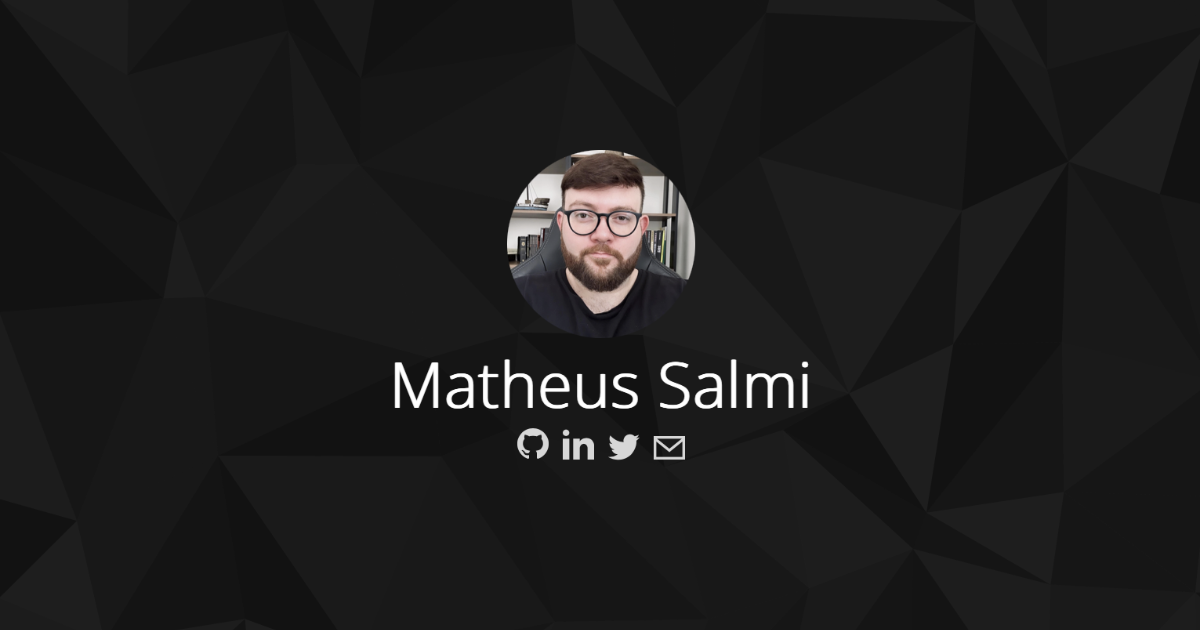
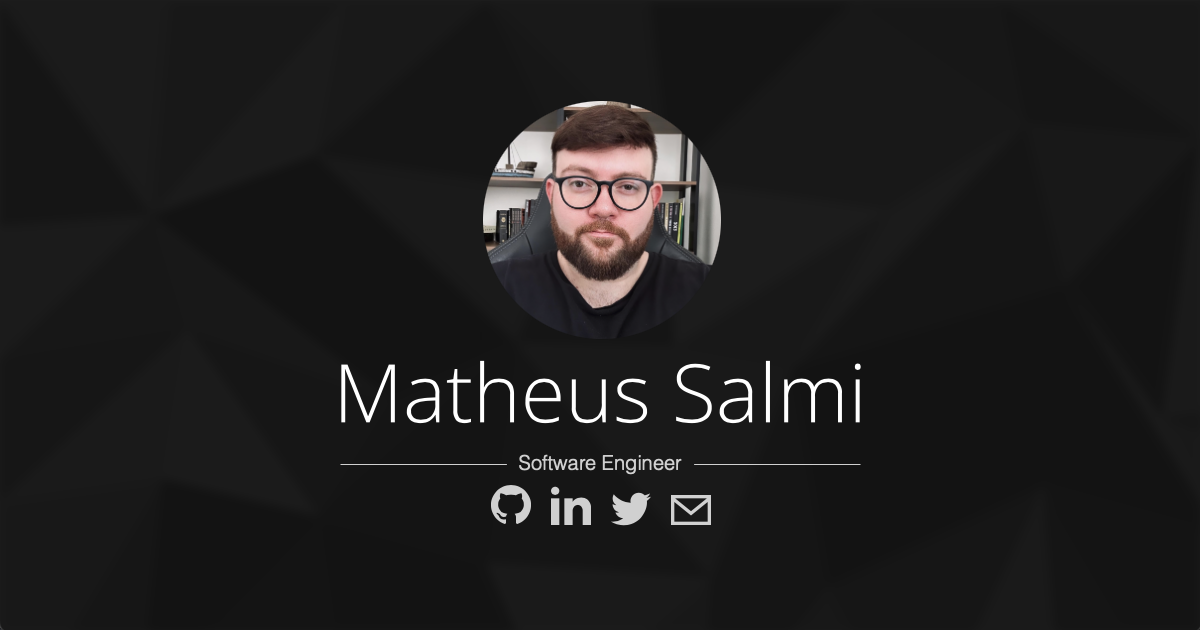
Add title. Update content and preview image

Changed region(s): [[0.2775, 0.573, 0.74, 0.8444], [0.4008, 0.1508, 0.6167, 0.5127]]

diff --git a/index.html b/index.html
@@ -5,8 +5,8 @@
 	<meta charset="UTF-8">
 	<meta name="viewport" content="width=device-width, initial-scale=1.0">
 	<title>Matheus Salmi</title>
-	<meta name="description" content="Fullstack developer with more than 10 years of experience.">
-	<meta name="keywords" content="developer, programmer, java, php, go, golang, sql, bash, html, javascript, js, css, react, mysql, laravel, spring">
+	<meta name="description" content="Full-stack developer with more than 10 years of experience.">
+	<meta name="keywords" content="developer, programmer, software engineer, java, php, go, golang, sql, bash, html, javascript, js, typescript, css, react, mysql, postgres, laravel, spring, symfony">
 
 	<meta property="og:title" content="Matheus Salmi">
 	<meta property="og:site_name" content="Matheus Salmi">
@@ -16,7 +16,7 @@
 	<meta name="twitter:card" content="summary">
 	<meta name="twitter:site" content="@mathsalmi">
 	<meta name="twitter:title" content="Matheus Salmi">
-	<meta name="twitter:description" content="Fullstack developer with more than 10 years of experience.">
+	<meta name="twitter:description" content="Full-stack developer with more than 10 years of experience.">
 	<meta name="twitter:image" content="http://msalmi.com/preview.png">
 
 	<link rel="stylesheet" href="index.css">
@@ -39,11 +39,10 @@
 			<img src="https://gravatar.com/avatar/80272aa63dea9faa27f3736f4820471f.jpg?size=480" alt="" width="240" height="240">
 		</picture>
 		<hgroup>
-		<h1 class="name">
-			<span class="hidden">Matheus Salmi</span>
-			<svg width="100%" height="100%" viewBox="0 0 514 64" xmlns="http://www.w3.org/2000/svg" style="fill-rule:evenodd;clip-rule:evenodd;stroke-linejoin:round;stroke-miterlimit:2;"><path d="M25.066,62l-20.976,-52.734l-0.195,-0c0.078,1.432 0.143,2.975 0.195,4.629c0.052,1.653 0.078,3.418 0.078,5.293l-0,42.812l-3.828,0l-0,-57.109l6.094,-0l20.234,50.859l0.234,0l20.391,-50.859l5.937,-0l0,57.109l-3.945,0l0,-43.281c0,-1.537 0.026,-3.112 0.078,-4.727c0.052,-1.614 0.117,-3.164 0.196,-4.648l-0.235,-0l-21.054,52.656l-3.204,0Z" style="fill-rule:nonzero;"/><path d="M83.23,18.797c4.662,-0 8.152,1.178 10.469,3.535c2.318,2.357 3.477,6.087 3.477,11.191l-0,28.477l-3.047,0l-0.703,-7.422l-0.235,0c-1.406,2.396 -3.242,4.362 -5.507,5.899c-2.266,1.536 -5.43,2.304 -9.493,2.304c-4.088,0 -7.291,-1.015 -9.609,-3.047c-2.318,-2.031 -3.477,-4.922 -3.477,-8.672c0,-4.218 1.745,-7.428 5.235,-9.628c3.489,-2.201 8.502,-3.444 15.039,-3.731l7.891,-0.391l-0,-3.085c-0,-4.349 -0.86,-7.448 -2.579,-9.297c-1.718,-1.849 -4.257,-2.774 -7.617,-2.774c-2.187,0 -4.29,0.28 -6.308,0.84c-2.019,0.56 -4.069,1.361 -6.153,2.402l-1.25,-3.281c2.032,-0.963 4.213,-1.758 6.543,-2.383c2.331,-0.625 4.772,-0.937 7.324,-0.937Zm10,21.601l-7.421,0.313c-5.391,0.26 -9.493,1.224 -12.305,2.891c-2.813,1.666 -4.219,4.166 -4.219,7.5c0,2.682 0.84,4.739 2.52,6.171c1.679,1.433 4.017,2.149 7.011,2.149c4.662,-0 8.223,-1.328 10.684,-3.985c2.461,-2.656 3.704,-6.276 3.73,-10.859l0,-4.18Z" style="fill-rule:nonzero;"/><path d="M122.254,59.383c1.224,-0 2.363,-0.091 3.418,-0.274c1.055,-0.182 1.986,-0.416 2.793,-0.703l-0,3.282c-0.833,0.286 -1.817,0.54 -2.949,0.761c-1.133,0.222 -2.364,0.332 -3.692,0.332c-3.594,0 -6.289,-1.009 -8.086,-3.027c-1.797,-2.018 -2.695,-5.163 -2.695,-9.434l-0,-27.5l-6.328,0l-0,-2.343l6.289,-1.211l1.367,-10l2.617,-0l0,10.273l13.242,0l0,3.281l-13.242,0l0,27.266c0,3.047 0.567,5.358 1.699,6.934c1.133,1.575 2.989,2.363 5.567,2.363Z" style="fill-rule:nonzero;"/><path d="M141.473,1.219l-0,19.844c-0,1.145 -0.02,2.213 -0.059,3.203c-0.039,0.989 -0.098,1.992 -0.176,3.007l0.274,0c1.041,-2.395 2.786,-4.414 5.234,-6.054c2.448,-1.641 5.586,-2.461 9.414,-2.461c4.818,-0 8.503,1.243 11.055,3.73c2.552,2.487 3.828,6.4 3.828,11.739l-0,27.773l-3.906,0l-0,-27.539c-0,-4.219 -0.97,-7.318 -2.91,-9.297c-1.941,-1.979 -4.734,-2.969 -8.379,-2.969c-4.688,0 -8.256,1.368 -10.703,4.102c-2.448,2.734 -3.672,6.836 -3.672,12.305l-0,23.398l-3.946,0l0,-60.781l3.946,-0Z" style="fill-rule:nonzero;"/><path d="M200.848,18.719c3.619,-0 6.627,0.846 9.023,2.539c2.396,1.693 4.193,4.017 5.391,6.972c1.198,2.956 1.797,6.322 1.797,10.098l-0,2.852l-30.664,-0c-0,5.833 1.347,10.312 4.043,13.437c2.695,3.125 6.555,4.688 11.582,4.688c2.604,-0 4.876,-0.209 6.816,-0.625c1.94,-0.417 4.108,-1.159 6.504,-2.227l-0,3.633c-2.083,0.937 -4.167,1.621 -6.25,2.051c-2.083,0.429 -4.479,0.644 -7.188,0.644c-6.432,0 -11.302,-1.966 -14.609,-5.898c-3.307,-3.932 -4.961,-9.18 -4.961,-15.742c0,-4.245 0.71,-8.06 2.129,-11.446c1.419,-3.385 3.503,-6.061 6.25,-8.027c2.747,-1.966 6.126,-2.949 10.137,-2.949Zm-0.039,3.398c-4.063,0 -7.351,1.354 -9.864,4.063c-2.513,2.708 -3.991,6.588 -4.433,11.64l26.445,0c0,-4.661 -0.996,-8.444 -2.988,-11.347c-1.992,-2.904 -5.046,-4.356 -9.16,-4.356Z" style="fill-rule:nonzero;"/><path d="M261.707,19.539l0,42.461l-3.203,0l-0.586,-7.656l-0.234,-0c-1.094,2.343 -2.858,4.336 -5.293,5.976c-2.435,1.641 -5.567,2.461 -9.395,2.461c-9.896,0 -14.844,-5.143 -14.844,-15.429l0,-27.813l3.946,0l-0,27.422c-0,4.245 0.957,7.37 2.871,9.375c1.914,2.005 4.72,3.008 8.418,3.008c4.661,-0 8.222,-1.354 10.683,-4.063c2.461,-2.708 3.692,-6.81 3.692,-12.304l-0,-23.438l3.945,0Z" style="fill-rule:nonzero;"/><path d="M302.488,50.867c0,3.776 -1.406,6.706 -4.218,8.789c-2.813,2.084 -6.862,3.125 -12.149,3.125c-2.943,0 -5.573,-0.26 -7.891,-0.781c-2.317,-0.521 -4.257,-1.159 -5.82,-1.914l0,-3.906c1.953,0.963 4.115,1.744 6.485,2.343c2.369,0.599 4.804,0.899 7.304,0.899c4.375,-0 7.526,-0.742 9.453,-2.227c1.927,-1.484 2.891,-3.515 2.891,-6.093c-0,-2.553 -1.048,-4.467 -3.145,-5.743c-2.096,-1.276 -5.019,-2.539 -8.769,-3.789c-2.604,-0.859 -4.915,-1.731 -6.934,-2.617c-2.018,-0.885 -3.6,-2.051 -4.746,-3.496c-1.146,-1.445 -1.719,-3.418 -1.719,-5.918c0,-3.411 1.368,-6.068 4.102,-7.969c2.734,-1.901 6.406,-2.851 11.016,-2.851c2.552,-0 4.928,0.241 7.129,0.722c2.2,0.482 4.199,1.101 5.996,1.856l-1.407,3.359c-1.614,-0.729 -3.476,-1.334 -5.586,-1.816c-2.109,-0.482 -4.218,-0.723 -6.328,-0.723c-3.463,0 -6.172,0.619 -8.125,1.856c-1.953,1.237 -2.929,3.027 -2.929,5.371c-0,1.823 0.468,3.248 1.406,4.277c0.937,1.029 2.279,1.888 4.023,2.578c1.745,0.69 3.815,1.452 6.211,2.285c2.474,0.86 4.753,1.758 6.836,2.696c2.084,0.937 3.757,2.148 5.02,3.632c1.263,1.485 1.894,3.503 1.894,6.055Z" style="fill-rule:nonzero;"/><path d="M366.434,47.273c-0,3.412 -0.853,6.27 -2.559,8.575c-1.706,2.304 -4.036,4.036 -6.992,5.195c-2.956,1.159 -6.296,1.738 -10.02,1.738c-3.489,0 -6.491,-0.241 -9.004,-0.722c-2.513,-0.482 -4.707,-1.062 -6.582,-1.739l0,-4.023c2.032,0.807 4.382,1.497 7.051,2.07c2.669,0.573 5.58,0.86 8.731,0.86c4.427,-0 8.092,-0.97 10.996,-2.911c2.903,-1.94 4.355,-4.902 4.355,-8.886c0,-2.344 -0.553,-4.265 -1.66,-5.762c-1.107,-1.497 -2.767,-2.786 -4.98,-3.867c-2.214,-1.081 -5,-2.181 -8.36,-3.301c-3.151,-1.068 -5.885,-2.24 -8.203,-3.516c-2.318,-1.276 -4.108,-2.897 -5.371,-4.863c-1.263,-1.966 -1.895,-4.486 -1.895,-7.559c0,-3.151 0.795,-5.8 2.383,-7.949c1.589,-2.148 3.757,-3.776 6.504,-4.883c2.748,-1.106 5.853,-1.66 9.317,-1.66c2.734,0 5.332,0.261 7.793,0.782c2.46,0.52 4.837,1.276 7.128,2.265l-1.406,3.477c-4.505,-1.927 -9.062,-2.891 -13.672,-2.891c-3.984,0 -7.311,0.892 -9.98,2.676c-2.669,1.784 -4.004,4.486 -4.004,8.105c-0,2.526 0.566,4.551 1.699,6.075c1.133,1.523 2.748,2.793 4.844,3.808c2.096,1.016 4.577,2.005 7.441,2.969c3.386,1.146 6.309,2.35 8.77,3.613c2.461,1.263 4.355,2.858 5.683,4.785c1.329,1.927 1.993,4.44 1.993,7.539Z" style="fill-rule:nonzero;"/><path d="M392.449,18.797c4.662,-0 8.151,1.178 10.469,3.535c2.318,2.357 3.477,6.087 3.477,11.191l-0,28.477l-3.047,0l-0.703,-7.422l-0.235,0c-1.406,2.396 -3.242,4.362 -5.508,5.899c-2.265,1.536 -5.429,2.304 -9.492,2.304c-4.088,0 -7.292,-1.015 -9.609,-3.047c-2.318,-2.031 -3.477,-4.922 -3.477,-8.672c0,-4.218 1.745,-7.428 5.235,-9.628c3.489,-2.201 8.502,-3.444 15.039,-3.731l7.89,-0.391l0,-3.085c0,-4.349 -0.859,-7.448 -2.578,-9.297c-1.719,-1.849 -4.258,-2.774 -7.617,-2.774c-2.188,0 -4.29,0.28 -6.309,0.84c-2.018,0.56 -4.069,1.361 -6.152,2.402l-1.25,-3.281c2.031,-0.963 4.212,-1.758 6.543,-2.383c2.331,-0.625 4.772,-0.937 7.324,-0.937Zm10,21.601l-7.422,0.313c-5.39,0.26 -9.492,1.224 -12.304,2.891c-2.813,1.666 -4.219,4.166 -4.219,7.5c-0,2.682 0.84,4.739 2.519,6.171c1.68,1.433 4.017,2.149 7.012,2.149c4.662,-0 8.223,-1.328 10.684,-3.985c2.461,-2.656 3.704,-6.276 3.73,-10.859l0,-4.18Z" style="fill-rule:nonzero;"/><rect x="420.027" y="1.219" width="3.984" height="60.781" style="fill-rule:nonzero;"/><path d="M481.902,18.719c4.089,-0 7.318,1.185 9.688,3.554c2.37,2.37 3.555,6.107 3.555,11.211l-0,28.516l-3.868,0l0,-28.359c0,-3.933 -0.898,-6.823 -2.695,-8.672c-1.797,-1.849 -4.167,-2.774 -7.109,-2.774c-4.037,0 -7.194,1.179 -9.473,3.535c-2.279,2.357 -3.418,6.062 -3.418,11.114l0,25.156l-3.906,0l-0,-28.359c-0,-3.933 -0.899,-6.823 -2.696,-8.672c-1.796,-1.849 -4.166,-2.774 -7.109,-2.774c-3.932,0 -7.057,1.231 -9.375,3.692c-2.318,2.461 -3.476,6.295 -3.476,11.504l-0,24.609l-3.946,0l0,-42.461l3.203,0l0.586,6.953l0.235,0c1.041,-2.057 2.636,-3.867 4.785,-5.429c2.148,-1.563 4.98,-2.344 8.496,-2.344c3.047,-0 5.631,0.683 7.754,2.051c2.122,1.367 3.6,3.391 4.433,6.074l0.274,-0c1.146,-2.526 2.923,-4.512 5.332,-5.957c2.409,-1.446 5.319,-2.168 8.73,-2.168Z" style="fill-rule:nonzero;"/><path d="M510.77,3.836c0.989,-0 1.718,0.293 2.187,0.879c0.469,0.586 0.703,1.374 0.703,2.363c0,2.136 -0.963,3.203 -2.89,3.203c-1.875,0 -2.813,-1.067 -2.813,-3.203c0,-0.989 0.234,-1.777 0.703,-2.363c0.469,-0.586 1.172,-0.879 2.11,-0.879Zm1.914,15.703l-0,42.461l-3.946,0l0,-42.461l3.946,0Z" style="fill-rule:nonzero;"/></svg>
-		</h1>
-			<p class="hidden">Fullstack developer with more than 10 years of experience.</p>
+			<h1 class="name">
+				<svg width="100%" height="100%" viewBox="0 0 514 64" xmlns="http://www.w3.org/2000/svg" style="fill-rule:evenodd;clip-rule:evenodd;stroke-linejoin:round;stroke-miterlimit:2;" role="img" aria-labelledby="svgTitle"><title id="svgTitle">Matheus Salmi</title><path d="M25.066,62l-20.976,-52.734l-0.195,-0c0.078,1.432 0.143,2.975 0.195,4.629c0.052,1.653 0.078,3.418 0.078,5.293l-0,42.812l-3.828,0l-0,-57.109l6.094,-0l20.234,50.859l0.234,0l20.391,-50.859l5.937,-0l0,57.109l-3.945,0l0,-43.281c0,-1.537 0.026,-3.112 0.078,-4.727c0.052,-1.614 0.117,-3.164 0.196,-4.648l-0.235,-0l-21.054,52.656l-3.204,0Z" style="fill-rule:nonzero;"/><path d="M83.23,18.797c4.662,-0 8.152,1.178 10.469,3.535c2.318,2.357 3.477,6.087 3.477,11.191l-0,28.477l-3.047,0l-0.703,-7.422l-0.235,0c-1.406,2.396 -3.242,4.362 -5.507,5.899c-2.266,1.536 -5.43,2.304 -9.493,2.304c-4.088,0 -7.291,-1.015 -9.609,-3.047c-2.318,-2.031 -3.477,-4.922 -3.477,-8.672c0,-4.218 1.745,-7.428 5.235,-9.628c3.489,-2.201 8.502,-3.444 15.039,-3.731l7.891,-0.391l-0,-3.085c-0,-4.349 -0.86,-7.448 -2.579,-9.297c-1.718,-1.849 -4.257,-2.774 -7.617,-2.774c-2.187,0 -4.29,0.28 -6.308,0.84c-2.019,0.56 -4.069,1.361 -6.153,2.402l-1.25,-3.281c2.032,-0.963 4.213,-1.758 6.543,-2.383c2.331,-0.625 4.772,-0.937 7.324,-0.937Zm10,21.601l-7.421,0.313c-5.391,0.26 -9.493,1.224 -12.305,2.891c-2.813,1.666 -4.219,4.166 -4.219,7.5c0,2.682 0.84,4.739 2.52,6.171c1.679,1.433 4.017,2.149 7.011,2.149c4.662,-0 8.223,-1.328 10.684,-3.985c2.461,-2.656 3.704,-6.276 3.73,-10.859l0,-4.18Z" style="fill-rule:nonzero;"/><path d="M122.254,59.383c1.224,-0 2.363,-0.091 3.418,-0.274c1.055,-0.182 1.986,-0.416 2.793,-0.703l-0,3.282c-0.833,0.286 -1.817,0.54 -2.949,0.761c-1.133,0.222 -2.364,0.332 -3.692,0.332c-3.594,0 -6.289,-1.009 -8.086,-3.027c-1.797,-2.018 -2.695,-5.163 -2.695,-9.434l-0,-27.5l-6.328,0l-0,-2.343l6.289,-1.211l1.367,-10l2.617,-0l0,10.273l13.242,0l0,3.281l-13.242,0l0,27.266c0,3.047 0.567,5.358 1.699,6.934c1.133,1.575 2.989,2.363 5.567,2.363Z" style="fill-rule:nonzero;"/><path d="M141.473,1.219l-0,19.844c-0,1.145 -0.02,2.213 -0.059,3.203c-0.039,0.989 -0.098,1.992 -0.176,3.007l0.274,0c1.041,-2.395 2.786,-4.414 5.234,-6.054c2.448,-1.641 5.586,-2.461 9.414,-2.461c4.818,-0 8.503,1.243 11.055,3.73c2.552,2.487 3.828,6.4 3.828,11.739l-0,27.773l-3.906,0l-0,-27.539c-0,-4.219 -0.97,-7.318 -2.91,-9.297c-1.941,-1.979 -4.734,-2.969 -8.379,-2.969c-4.688,0 -8.256,1.368 -10.703,4.102c-2.448,2.734 -3.672,6.836 -3.672,12.305l-0,23.398l-3.946,0l0,-60.781l3.946,-0Z" style="fill-rule:nonzero;"/><path d="M200.848,18.719c3.619,-0 6.627,0.846 9.023,2.539c2.396,1.693 4.193,4.017 5.391,6.972c1.198,2.956 1.797,6.322 1.797,10.098l-0,2.852l-30.664,-0c-0,5.833 1.347,10.312 4.043,13.437c2.695,3.125 6.555,4.688 11.582,4.688c2.604,-0 4.876,-0.209 6.816,-0.625c1.94,-0.417 4.108,-1.159 6.504,-2.227l-0,3.633c-2.083,0.937 -4.167,1.621 -6.25,2.051c-2.083,0.429 -4.479,0.644 -7.188,0.644c-6.432,0 -11.302,-1.966 -14.609,-5.898c-3.307,-3.932 -4.961,-9.18 -4.961,-15.742c0,-4.245 0.71,-8.06 2.129,-11.446c1.419,-3.385 3.503,-6.061 6.25,-8.027c2.747,-1.966 6.126,-2.949 10.137,-2.949Zm-0.039,3.398c-4.063,0 -7.351,1.354 -9.864,4.063c-2.513,2.708 -3.991,6.588 -4.433,11.64l26.445,0c0,-4.661 -0.996,-8.444 -2.988,-11.347c-1.992,-2.904 -5.046,-4.356 -9.16,-4.356Z" style="fill-rule:nonzero;"/><path d="M261.707,19.539l0,42.461l-3.203,0l-0.586,-7.656l-0.234,-0c-1.094,2.343 -2.858,4.336 -5.293,5.976c-2.435,1.641 -5.567,2.461 -9.395,2.461c-9.896,0 -14.844,-5.143 -14.844,-15.429l0,-27.813l3.946,0l-0,27.422c-0,4.245 0.957,7.37 2.871,9.375c1.914,2.005 4.72,3.008 8.418,3.008c4.661,-0 8.222,-1.354 10.683,-4.063c2.461,-2.708 3.692,-6.81 3.692,-12.304l-0,-23.438l3.945,0Z" style="fill-rule:nonzero;"/><path d="M302.488,50.867c0,3.776 -1.406,6.706 -4.218,8.789c-2.813,2.084 -6.862,3.125 -12.149,3.125c-2.943,0 -5.573,-0.26 -7.891,-0.781c-2.317,-0.521 -4.257,-1.159 -5.82,-1.914l0,-3.906c1.953,0.963 4.115,1.744 6.485,2.343c2.369,0.599 4.804,0.899 7.304,0.899c4.375,-0 7.526,-0.742 9.453,-2.227c1.927,-1.484 2.891,-3.515 2.891,-6.093c-0,-2.553 -1.048,-4.467 -3.145,-5.743c-2.096,-1.276 -5.019,-2.539 -8.769,-3.789c-2.604,-0.859 -4.915,-1.731 -6.934,-2.617c-2.018,-0.885 -3.6,-2.051 -4.746,-3.496c-1.146,-1.445 -1.719,-3.418 -1.719,-5.918c0,-3.411 1.368,-6.068 4.102,-7.969c2.734,-1.901 6.406,-2.851 11.016,-2.851c2.552,-0 4.928,0.241 7.129,0.722c2.2,0.482 4.199,1.101 5.996,1.856l-1.407,3.359c-1.614,-0.729 -3.476,-1.334 -5.586,-1.816c-2.109,-0.482 -4.218,-0.723 -6.328,-0.723c-3.463,0 -6.172,0.619 -8.125,1.856c-1.953,1.237 -2.929,3.027 -2.929,5.371c-0,1.823 0.468,3.248 1.406,4.277c0.937,1.029 2.279,1.888 4.023,2.578c1.745,0.69 3.815,1.452 6.211,2.285c2.474,0.86 4.753,1.758 6.836,2.696c2.084,0.937 3.757,2.148 5.02,3.632c1.263,1.485 1.894,3.503 1.894,6.055Z" style="fill-rule:nonzero;"/><path d="M366.434,47.273c-0,3.412 -0.853,6.27 -2.559,8.575c-1.706,2.304 -4.036,4.036 -6.992,5.195c-2.956,1.159 -6.296,1.738 -10.02,1.738c-3.489,0 -6.491,-0.241 -9.004,-0.722c-2.513,-0.482 -4.707,-1.062 -6.582,-1.739l0,-4.023c2.032,0.807 4.382,1.497 7.051,2.07c2.669,0.573 5.58,0.86 8.731,0.86c4.427,-0 8.092,-0.97 10.996,-2.911c2.903,-1.94 4.355,-4.902 4.355,-8.886c0,-2.344 -0.553,-4.265 -1.66,-5.762c-1.107,-1.497 -2.767,-2.786 -4.98,-3.867c-2.214,-1.081 -5,-2.181 -8.36,-3.301c-3.151,-1.068 -5.885,-2.24 -8.203,-3.516c-2.318,-1.276 -4.108,-2.897 -5.371,-4.863c-1.263,-1.966 -1.895,-4.486 -1.895,-7.559c0,-3.151 0.795,-5.8 2.383,-7.949c1.589,-2.148 3.757,-3.776 6.504,-4.883c2.748,-1.106 5.853,-1.66 9.317,-1.66c2.734,0 5.332,0.261 7.793,0.782c2.46,0.52 4.837,1.276 7.128,2.265l-1.406,3.477c-4.505,-1.927 -9.062,-2.891 -13.672,-2.891c-3.984,0 -7.311,0.892 -9.98,2.676c-2.669,1.784 -4.004,4.486 -4.004,8.105c-0,2.526 0.566,4.551 1.699,6.075c1.133,1.523 2.748,2.793 4.844,3.808c2.096,1.016 4.577,2.005 7.441,2.969c3.386,1.146 6.309,2.35 8.77,3.613c2.461,1.263 4.355,2.858 5.683,4.785c1.329,1.927 1.993,4.44 1.993,7.539Z" style="fill-rule:nonzero;"/><path d="M392.449,18.797c4.662,-0 8.151,1.178 10.469,3.535c2.318,2.357 3.477,6.087 3.477,11.191l-0,28.477l-3.047,0l-0.703,-7.422l-0.235,0c-1.406,2.396 -3.242,4.362 -5.508,5.899c-2.265,1.536 -5.429,2.304 -9.492,2.304c-4.088,0 -7.292,-1.015 -9.609,-3.047c-2.318,-2.031 -3.477,-4.922 -3.477,-8.672c0,-4.218 1.745,-7.428 5.235,-9.628c3.489,-2.201 8.502,-3.444 15.039,-3.731l7.89,-0.391l0,-3.085c0,-4.349 -0.859,-7.448 -2.578,-9.297c-1.719,-1.849 -4.258,-2.774 -7.617,-2.774c-2.188,0 -4.29,0.28 -6.309,0.84c-2.018,0.56 -4.069,1.361 -6.152,2.402l-1.25,-3.281c2.031,-0.963 4.212,-1.758 6.543,-2.383c2.331,-0.625 4.772,-0.937 7.324,-0.937Zm10,21.601l-7.422,0.313c-5.39,0.26 -9.492,1.224 -12.304,2.891c-2.813,1.666 -4.219,4.166 -4.219,7.5c-0,2.682 0.84,4.739 2.519,6.171c1.68,1.433 4.017,2.149 7.012,2.149c4.662,-0 8.223,-1.328 10.684,-3.985c2.461,-2.656 3.704,-6.276 3.73,-10.859l0,-4.18Z" style="fill-rule:nonzero;"/><rect x="420.027" y="1.219" width="3.984" height="60.781" style="fill-rule:nonzero;"/><path d="M481.902,18.719c4.089,-0 7.318,1.185 9.688,3.554c2.37,2.37 3.555,6.107 3.555,11.211l-0,28.516l-3.868,0l0,-28.359c0,-3.933 -0.898,-6.823 -2.695,-8.672c-1.797,-1.849 -4.167,-2.774 -7.109,-2.774c-4.037,0 -7.194,1.179 -9.473,3.535c-2.279,2.357 -3.418,6.062 -3.418,11.114l0,25.156l-3.906,0l-0,-28.359c-0,-3.933 -0.899,-6.823 -2.696,-8.672c-1.796,-1.849 -4.166,-2.774 -7.109,-2.774c-3.932,0 -7.057,1.231 -9.375,3.692c-2.318,2.461 -3.476,6.295 -3.476,11.504l-0,24.609l-3.946,0l0,-42.461l3.203,0l0.586,6.953l0.235,0c1.041,-2.057 2.636,-3.867 4.785,-5.429c2.148,-1.563 4.98,-2.344 8.496,-2.344c3.047,-0 5.631,0.683 7.754,2.051c2.122,1.367 3.6,3.391 4.433,6.074l0.274,-0c1.146,-2.526 2.923,-4.512 5.332,-5.957c2.409,-1.446 5.319,-2.168 8.73,-2.168Z" style="fill-rule:nonzero;"/><path d="M510.77,3.836c0.989,-0 1.718,0.293 2.187,0.879c0.469,0.586 0.703,1.374 0.703,2.363c0,2.136 -0.963,3.203 -2.89,3.203c-1.875,0 -2.813,-1.067 -2.813,-3.203c0,-0.989 0.234,-1.777 0.703,-2.363c0.469,-0.586 1.172,-0.879 2.11,-0.879Zm1.914,15.703l-0,42.461l-3.946,0l0,-42.461l3.946,0Z" style="fill-rule:nonzero;"/></svg>
+			</h1>
+			<p class="title">Software Engineer</p>
 		</hgroup>
 	</header>
 	<main>

diff --git a/index.css b/index.css
@@ -43,13 +43,43 @@ body {
   border: 1px solid rgba(0, 0, 0, 0.034);
 }
 
+hgroup {
+  max-width: 52rem;
+  margin: 0 auto;
+}
+
 .name {
   height: 10rem;
 }
 
 .name svg {
   fill: white;
-  max-width: 52rem;
+}
+
+.title {
+  font-size: 2rem;
+  font-weight: lighter;
+  position: relative;
+  margin: 1rem 0;
+}
+
+.title::before, .title::after {
+  content: ' ';
+  
+  display: block;
+  width: 32%;
+
+  position: absolute;
+  top: 1.2rem;
+  z-index: -1;
+  
+  border-bottom: 1px solid rgba(255, 255, 255, 0.8);
+}
+.title::before {
+  left: 0;
+}
+.title::after {
+  right: 0;
 }
 
 ul {
@@ -112,10 +142,10 @@ li svg {
     width: 5rem;
     height: 5rem;
   }
+  hgroup {
+    max-width: 48rem;
+  }
   .name {
     margin-top: 2rem;
-  }
-  .name svg {
-    max-width: 48rem;
   }
 }
